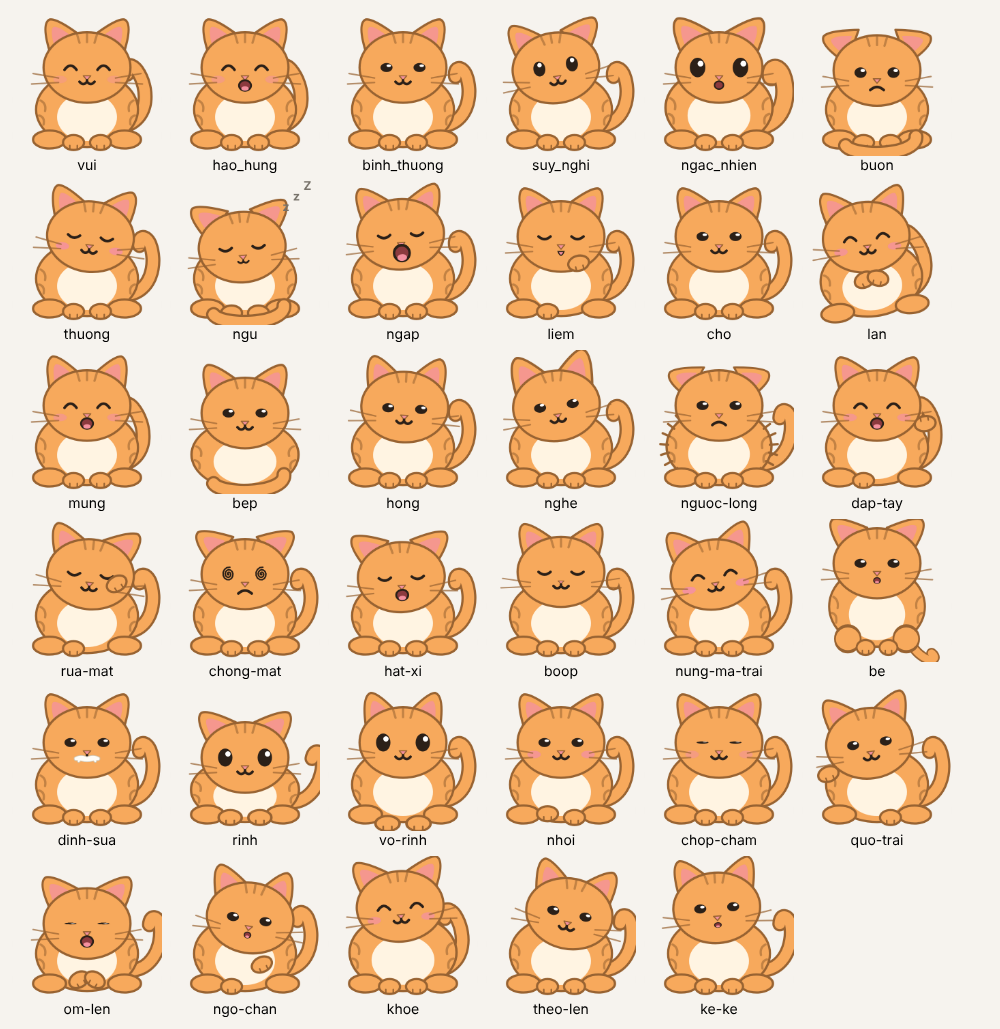
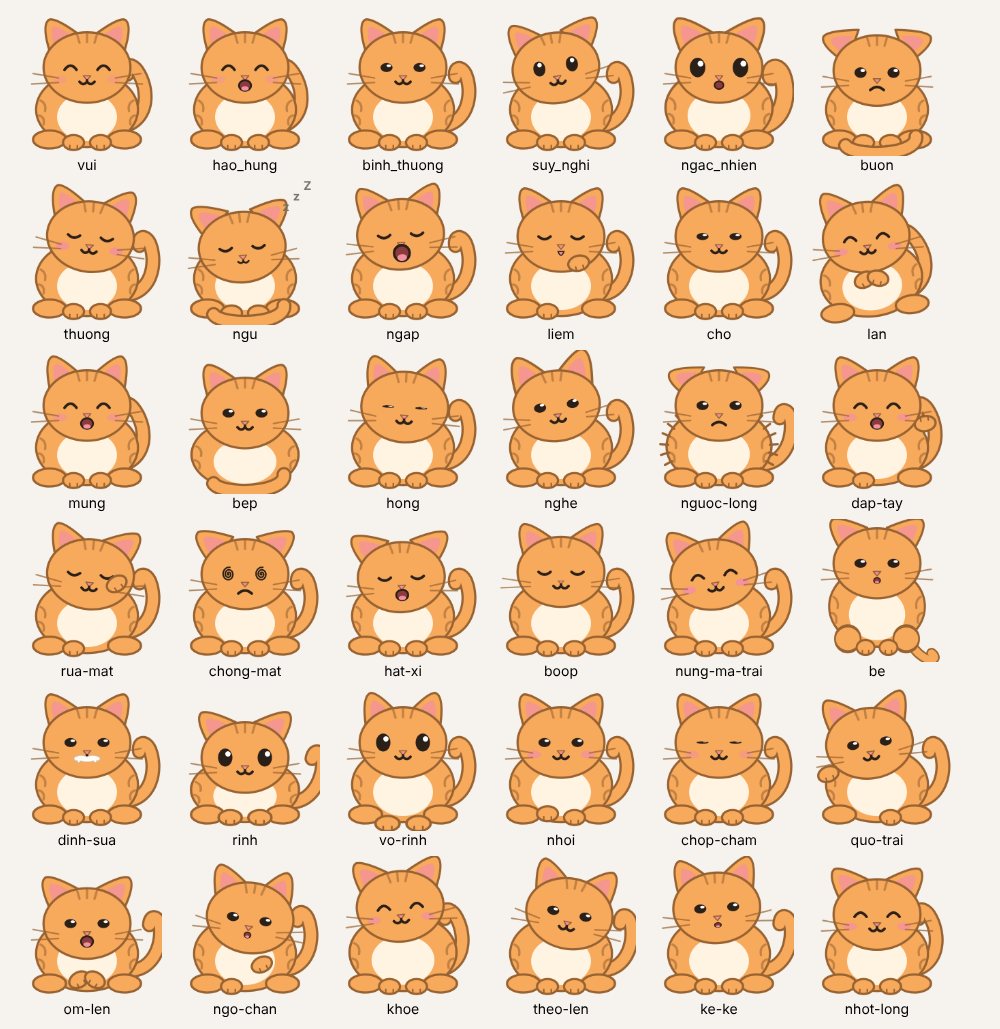
Rà soát giai đoạn 80: nhột không lẫn với vồ/quơ/rình/hắt xì, thêm việc giai đoạn 81
Claude-Session: https://claude.ai/code/session_01Sh5RQ6BHpnfjrrrNBnJZi5

Changed region(s): [[0.806, 0.8397, 0.961, 0.9951]]

diff --git a/web/do_choi.js b/web/do_choi.js
@@ -353,7 +353,7 @@ if (typeof module !== 'undefined') module.exports = { boBuocLen, boLenDeNut, boL
     const ranh = trongVung && !dangDoi() && face.dataset.e !== 'ngu' && Date.now() - lvVoRinh > 3000;
     if (!ranh) { if (lvRinh) boRinh(); return; }
     if (lvRinh) return;
-    svg.classList.add('rinh'); conChoi(); noi('rinh');
+    svg.classList.remove('nhot-long'); svg.classList.add('rinh'); conChoi(); noi('rinh');
     lvRinh = setTimeout(() => {
       lvRinh = null; svg.classList.remove('rinh');
       if (!lv || dangDoi() || face.dataset.e === 'ngu' || document.hidden) return;
@@ -378,11 +378,11 @@ if (typeof module !== 'undefined') module.exports = { boBuocLen, boLenDeNut, boL
       if (nhin && face.dataset.e !== 'ngu') { const [tx, ty] = boHuongNhin(p.x - 100, p.y - 74); nhin.setAttribute('transform', `translate(${tx} ${ty})`); }
       // lông quét ngang mũi → lâu lâu Bơ hắt xì (nghỉ 6 giây giữa hai lần)
       if (boGanMui(p.x, p.y) && Date.now() - lvHatXi > 6000 && !dangDoi() && face.dataset.e !== 'ngu') {
-        lvHatXi = Date.now(); giu('hat-xi', 900); noi('hat_xi', true); conChoi();
+        lvHatXi = Date.now(); svg.classList.remove('nhot-long'); giu('hat-xi', 900); noi('hat_xi', true); conChoi();
       }
       // lông ở phía trên đầu, ngang tầm với của chân → đứng lên vồ
       if (p.y > -30 && p.y < 45 && Math.abs(p.x - 100) < 65 && !dangDoi() && face.dataset.e !== 'ngu') {
-        giu('voi', 500); conChoi();
+        svg.classList.remove('nhot-long'); giu('voi', 500); conChoi();
         if (Date.now() - lvNoi > 1500) { lvNoi = Date.now(); dem('long_vu'); noi('long_vu'); }
       }
       rinhLongVu(boLongVuRinh_(p.x, p.y));
@@ -398,7 +398,7 @@ if (typeof module !== 'undefined') module.exports = { boBuocLen, boLenDeNut, boL
       const hong = boLongVuBenHong(p.x, p.y);
       if (hong && !svg.classList.contains('rinh') && !svg.classList.contains('voi') && !dangDoi() && face.dataset.e !== 'ngu') {
         svg.classList.remove(hong === 'trai' ? 'quo-phai' : 'quo-trai');
-        giu('quo-' + hong, 650); conChoi();
+        svg.classList.remove('nhot-long'); giu('quo-' + hong, 650); conChoi();
         if (Date.now() - lvQuo > 1500) { lvQuo = Date.now(); dem('quo'); noi('quo'); }
       }
     }

diff --git a/tests/test_choi.py b/tests/test_choi.py
@@ -412,6 +412,8 @@ def test_long_vu_cu_lung():
     js = (config.ROOT / "web" / "do_choi.js").read_text(encoding="utf-8")
     assert "(vung === 'lung' || vung === 'bung') && dangLuot && Date.now() - lvNhot > 3000" in js
     assert "giu('nhot-long', 900)" in js
+    # đang nhột mà lông bay lên đầu (vồ), sang hông (quơ), xuống đất (rình), qua mũi (hắt xì) → bỏ tư thế nhột cho khỏi lẫn
+    assert js.count("svg.classList.remove('nhot-long');") == 4
 
 
 def test_cho_an_luc_om_len_thi_buong_len():

diff --git a/PROGRESS.md b/PROGRESS.md
@@ -5,8 +5,9 @@
 - **Góp ý:** ghi vào file `FEEDBACK.md`, phiên sau Claude sẽ xử lý trước.
 - **Lấy bản mới về máy:** `git pull` trong thư mục dự án rồi chạy lại `run.bat`.
 
-## 2026-10-11 – Giai đoạn 80 (đang làm): lông vũ cù Bơ
+## 2026-10-11 – Giai đoạn 80 xong: lông vũ cù Bơ
 - **Nhột**: bật cần câu lông vũ, lướt lông ngang qua lưng hay bụng Bơ → lông Bơ rùng rùng, Bơ cúi đầu quay về phía chỗ nhột, mắt cười, má hồng, tai giật, lâu lâu nói "Hí hí, nhột! Lông vũ cù Bơ hả~". Lông đứng yên thì không tính; nghỉ 3 giây giữa hai lần. Máy bật giảm chuyển động thì không rùng, chỉ đổi tư thế. Ảnh `docs/anh/long-vu-cu-lung.png` (điện thoại, máy tính, mèo đen màn hình thấp, mướp vằn nền tối). `scripts/thu_cham.py` thử thêm — đạt hết. 438 test qua hết.
+- Rà soát, sửa: đang nhột mà lông bay ngay lên đầu (vồ), sang hông (quơ chân), xuống đất (rình) hay qua mũi (hắt xì) thì trước đây hai tư thế lẫn vào nhau → giờ bỏ tư thế nhột, làm tư thế mới. Câu "nhột" chỉ thỉnh thoảng hiện (lướt qua bụng là chuyện hay gặp, cho khỏi lắm lời). Bộ ảnh `docs/anh/meo-tat-ca.png` có thêm "nhot-long". 438 test qua hết, `scripts/thu_cham.py` đạt hết.
 **Tân cần thử:** bật nút lông vũ, rê lông ngang qua bụng Bơ.
 
 ## 2026-10-11 – Giai đoạn 79 xong: giọng cho trò ke ke

diff --git a/TASKS.md b/TASKS.md
@@ -424,7 +424,11 @@
 
 ## Giai đoạn 80 – Ý tưởng tiếp (Claude tự thêm, trong hướng mèo/chạm/giọng)
 - [x] Lông vũ lướt nhẹ qua lưng/bụng Bơ (không phải mũi) → lông Bơ rùng nhẹ, Bơ quay đầu nhìn chỗ nhột
-- [ ] Rà soát giai đoạn 80, sửa lỗi tìm được
+- [x] Rà soát giai đoạn 80, sửa lỗi tìm được
+
+## Giai đoạn 81 – Ý tưởng tiếp (Claude tự thêm, trong hướng mèo/chạm/giọng)
+- [ ] Cuộn len lăn tới chạm đuôi Bơ → đuôi giật mình vểnh lên, Bơ ngoái lại nhìn đuôi "Ai đụng đuôi Bơ?" (thay vì vồ như chạm chân)
+- [ ] Rà soát giai đoạn 81, sửa lỗi tìm được
 
 ## Để sau (tạm dừng theo HUONG_PHAT_TRIEN.md)
 Giai đoạn 45 – Chuyện hỏi thăm rõ ràng hơn (chỉ làm khi Tân báo lỗi liên quan):
